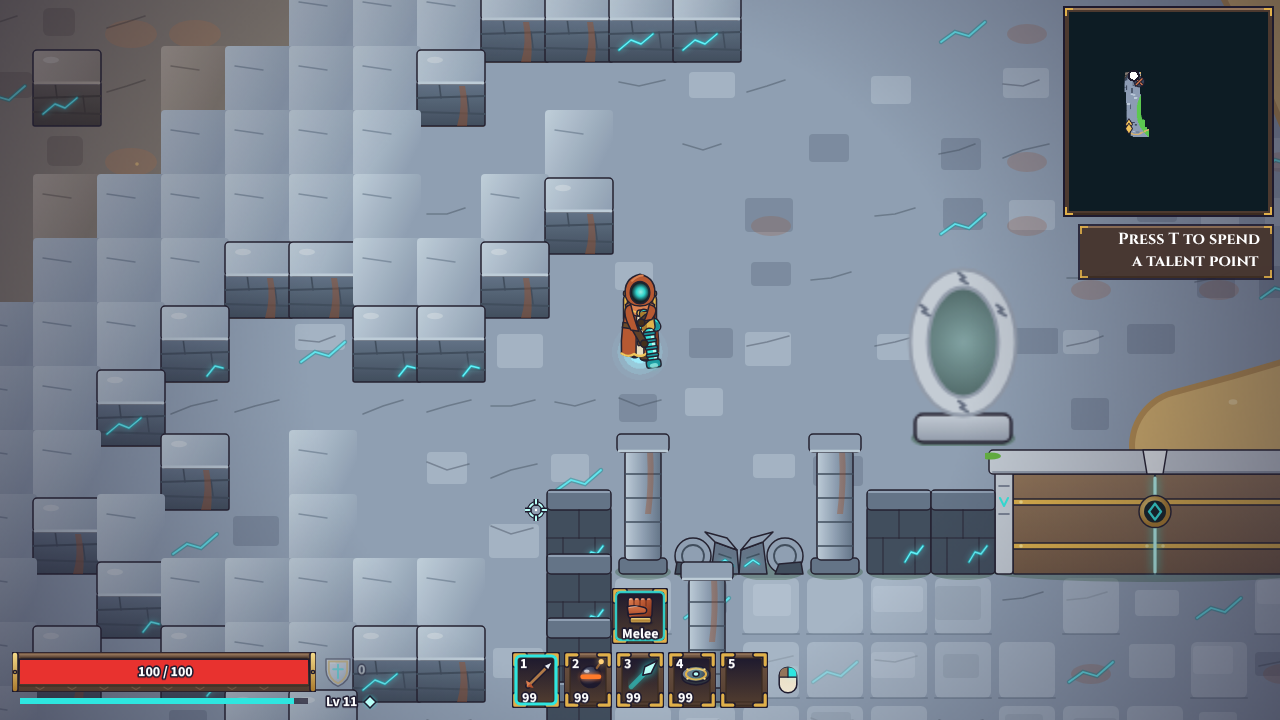
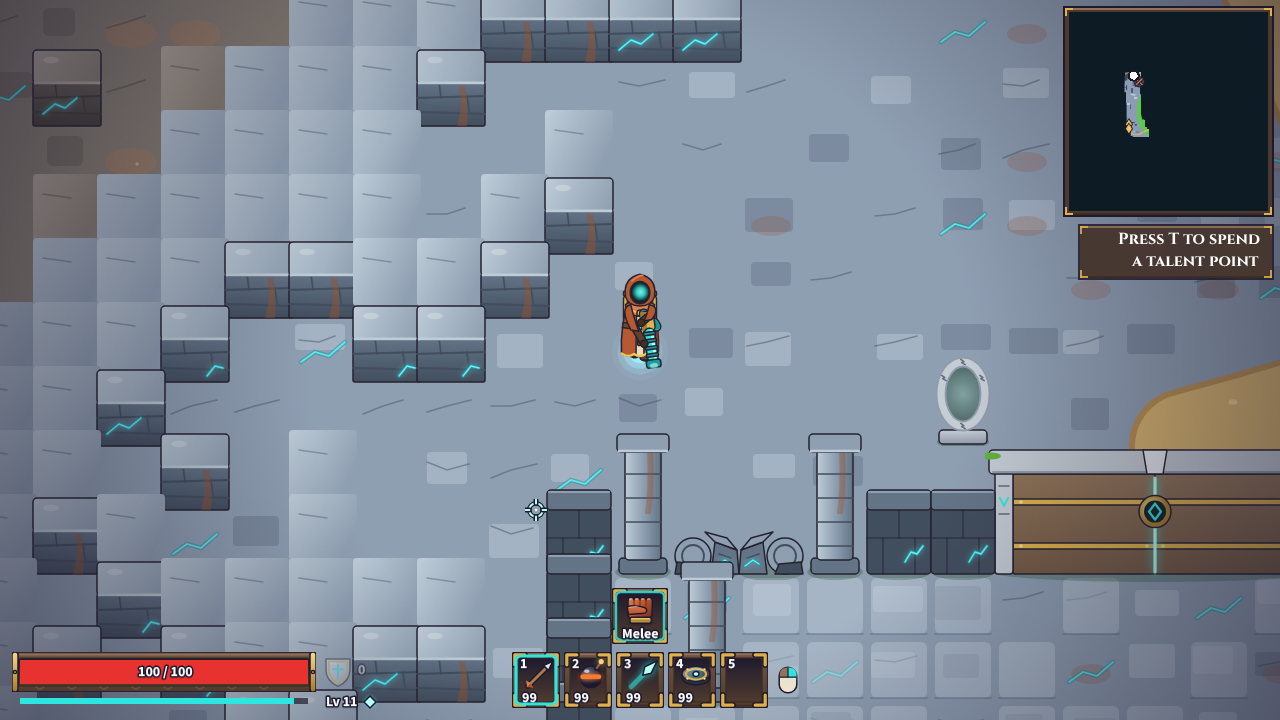
072: retake shots 01, 02 and 05 at the stone's true size; the e2e waits out the swell on a sped-up tween clock
Claude-Session: https://claude.ai/code/session_01SBmmtR6FEqPnQJfSseS96o

Changed region(s): [[0.6875, 0.3667, 0.8125, 0.6417]]

diff --git a/tests/e2e/returnStones.spec.ts b/tests/e2e/returnStones.spec.ts
@@ -62,7 +62,10 @@ test("the Forum's return stone wakes at its door; after a KO the waystone travel
   await expect.poll(async () => (await page.evaluate(() => window.__GAME__?.ui().returnStones))?.find((r) => r.id === STONE.id)?.look).toBe('woken');
   // Its swell over, it is drawn at its frame's size on the world, as the foundry's waystone is (32 × 48 px), whatever
   // the texture's bake scale.
-  await expect.poll(async () => (await page.evaluate(() => window.__GAME__?.ui().returnStones))?.find((r) => r.id === STONE.id)?.scale).toBe(1);
+  // The swell plays on the tween clock, sped up here so a slow, loaded page doesn't hold the poll.
+  await page.evaluate(() => window.__GAME__?.tweenSpeed(10));
+  await expect.poll(async () => (await page.evaluate(() => window.__GAME__?.ui().returnStones))?.find((r) => r.id === STONE.id)?.scale, { timeout: 20_000 }).toBe(1);
+  await page.evaluate(() => window.__GAME__?.tweenSpeed(1));
   const drawn = (await page.evaluate(() => window.__GAME__?.ui().returnStones))?.find((r) => r.id === STONE.id);
   expect(drawn?.w).toBeCloseTo(STONE_SIZE.w, 0);
   expect(drawn?.h).toBeCloseTo(STONE_SIZE.h, 0);

diff --git a/tests/e2e/returnStonesShots.spec.ts b/tests/e2e/returnStonesShots.spec.ts
@@ -87,7 +87,10 @@ test.describe('review screenshots (072)', () => {
     // Woken: to the door's outside, past it; the swell plays out before the shot.
     await walk(page, FORUM_ARENA.door.leaveTo.tx, FORUM_ARENA.door.leaveTo.ty);
     await expect.poll(async () => (await stoneShown(page))?.look).toBe('woken');
-    await expect.poll(async () => (await stoneShown(page))?.scale).toBe(1);
+    // The swell plays on the tween clock, sped up so a slow, loaded page doesn't hold the poll.
+    await page.evaluate(() => window.__GAME__?.tweenSpeed(10));
+    await expect.poll(async () => (await stoneShown(page))?.scale, { timeout: 20_000 }).toBe(1);
+    await page.evaluate(() => window.__GAME__?.tweenSpeed(1));
     await settle(page);
     await page.screenshot({ path: `${SHOTS}/02-return-stone-woken.png` });
 
